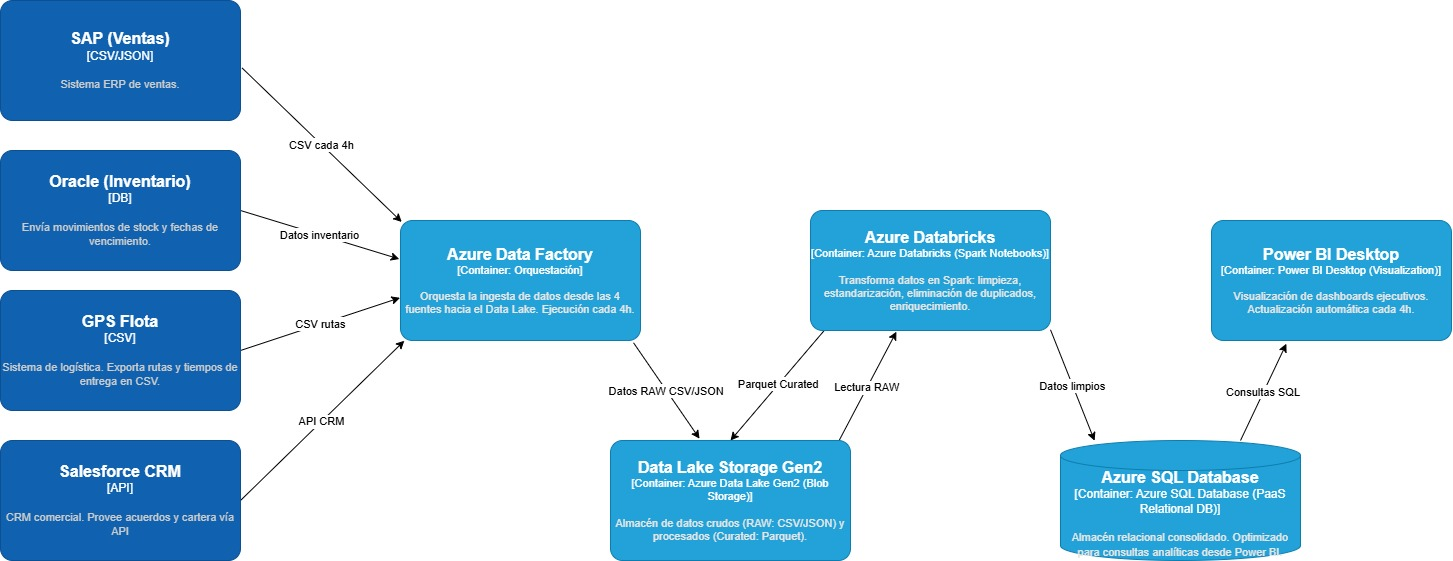
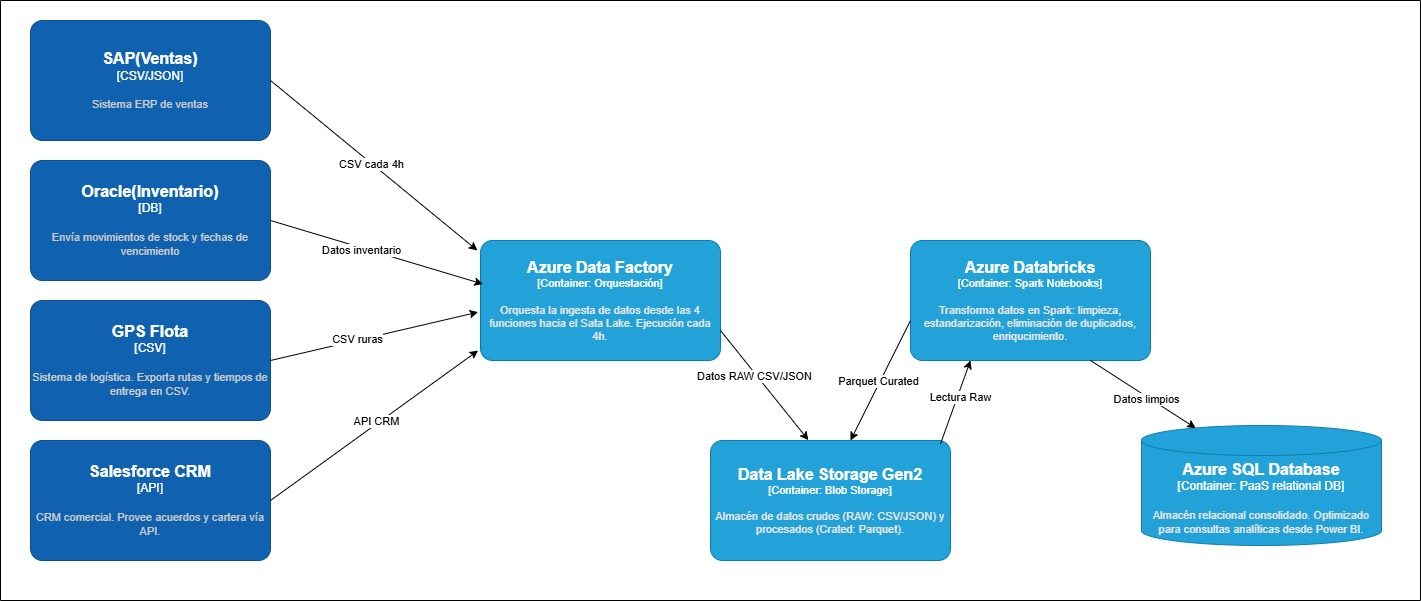
corección del diagrama C2

diff --git a/README.md b/README.md
@@ -56,13 +56,12 @@ Este diagrama muestra la arquitectura de datos de DataCo en Azure, detallando lo
   * Salesforce CRM – provee acuerdos y cartera vía API cada 4h.
 
 * **Azure Data Factory:** Orquesta la ingesta de datos desde las cuatro fuentes hacia el Data Lake, con ejecución programada cada 4h.
-* **Data Lake Storage Gen2:** Almacén de datos crudos (RAW: CSV/JSON) y procesados (Curated: Parquet).
+* **Data Lake Storage Gen2:** Almacenamiento de datos crudos (RAW: CSV/JSON) y procesados (Curated: Parquet).
 
 * **Azure Databricks:** Realiza limpieza, estandarización, eliminación de duplicados y enriquecimiento de datos usando Spark.
 
 * **Azure SQL Database:** Almacén relacional consolidado, optimizado para consultas analíticas.
 
-* **Power BI Desktop:** Visualización de dashboards ejecutivos, actualizados automáticamente cada 4h.
 
 ---
 ### Diagrama C3 - Componente Azure Databricks
